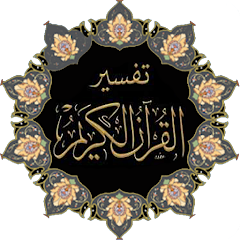
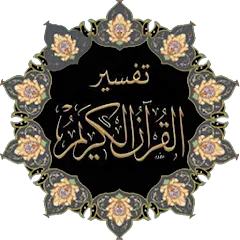
update ramadan

diff --git a/src/app/list-ramadan/page.js b/src/app/list-ramadan/page.js
@@ -7,6 +7,8 @@ import SplashScreen from "@/components/Layout/SplashScreen";
 // import moment from "moment";
 import moment from 'moment-hijri';
 import { useRamadan } from "@/context/ramadanContext";
+import { FontAwesomeIcon } from "@fortawesome/react-fontawesome";
+import { faClose, faLock } from "@fortawesome/free-solid-svg-icons";
 
 export default function Page() {
     const { ramadan } = useRamadan();
@@ -64,12 +66,13 @@ export default function Page() {
         const fetchRamadanDates = async () => {
             try {
                 const currentYear = new Date().getFullYear();
-                const url = `https://api.aladhan.com/v1/calendar?latitude=${location.lat}&longitude=${location.lng}&year=${currentYear}&method=2`;
+                const apiUrl = `https://api.aladhan.com/v1/calendar?latitude=${location.lat}&longitude=${location.lng}&year=${currentYear}&method=2`;
 
-                const response = await fetch(url);
-                const data = await response.json();
+                const response = await fetch(apiUrl);
+                if (!response.ok) throw new Error('فشل جلب البيانات');
+                const { data } = await response.json();
 
-                const ramadanDays = data.data;
+                const ramadanDays = data.filter(monthData => monthData.date.hijri.month.number === 9)
 
                 if (ramadanDays.length > 0) {
                     const firstDay = moment(ramadanDays[0].date.gregorian.date, "DD-MM-YYYY", true).toDate();
@@ -116,6 +119,12 @@ export default function Page() {
         return Math.max(1, Math.min(day, ramadanInfo.totalDays));
     };
 
+    const [currentRamadanDay, setCurrentRamadanDay] = useState(getCurrentRamadanDay());
+
+    useEffect(() => {
+        setCurrentRamadanDay(getCurrentRamadanDay());
+    }, [ramadanInfo.start]);
+
     if (isLoading) return <SplashScreen />;
     if (!ramadan) return null;
 
@@ -160,6 +169,7 @@ export default function Page() {
                         <table className="w-full border-collapse text-sm md:text-base bg-white dark:bg-black">
                             <thead className="sticky top-0">
                                 <tr className="bg-green-600 text-white text-center">
+                                    <span></span>
                                     <th className="p-3 font-semibold border-b border-green-500">اليوم</th>
                                     <th className="p-3 font-semibold border-b border-green-500">العبادات اليومية</th>
                                     <th className="p-3 font-semibold border-b border-green-500">النوافل</th>
@@ -174,14 +184,23 @@ export default function Page() {
                                     const dayNumber = i + 1;
                                     if (selectedDay !== "all" && dayNumber !== Number(selectedDay)) return null;
 
+
                                     return (
                                         <tr
                                             key={i}
-                                            className={`hover:bg-green-50 ${i % 2 === 0 ? "bg-green-50/30 dark:bg-zinc-800" : "bg-white dark:bg-black"}`}
+                                            className={`hover:bg-green-50 relative ${i % 2 === 0 ? "bg-green-50/30 dark:bg-zinc-800" : "bg-white dark:bg-black"}`}
                                         >
+                                            {
+                                                dayNumber > currentRamadanDay ?
+                                                    <span className="absolute z-10 flex items-center gap-3 justify-center top-0 w-full text-white h-full bg-black/60">
+                                                        يوم {dayNumber} - سيتم تفعيله عند دخول وقته
+                                                        <FontAwesomeIcon icon={faLock} />
+                                                    </span> : <span></span>
+                                            }
                                             <td className="p-3 text-center font-medium text-green-600 border-r dark:border-zinc-500">
                                                 {dayNumber} رمضان
                                             </td>
+
 
                                             {/* الصلوات المفروضة */}
                                             <td className="p-3 border-r dark:border-zinc-500">

diff --git a/src/data/links.js b/src/data/links.js
@@ -2,42 +2,42 @@ export const categoriesLinks = [
     {
         name: "امساكية شهر رمضان",
         path: "/calendar",
-        img: "/categories/mosque.png",
+        img: "/categories/mosque.webp",
         new: true,
         ramadan: true,
     },
     {
         name: "يومي في رمضان",
         path: "/list-ramadan",
-        img: "/categories/list.png",
+        img: "/categories/list.webp",
         new: true,
         ramadan: true,
     },
     {
         name: "اسئلة دينية",
         path: "/quiz",
-        img: "/categories/quiz.png",
+        img: "/categories/quiz.webp",
         new: true,
         ramadan: false,
     },
     {
         name: "اداه الباحث في الحديث",
         path: `/search/-`,
-        img: "/categories/search.jpeg",
+        img: "/categories/search.webp",
         new: true,
         ramadan: false,
     },
     {
         name: "اسماء الله الحسني",
         path: "/names",
-        img: "/categories/allah.png",
+        img: "/categories/allah.webp",
         new: true,
         ramadan: false,
     },
     {
         name: "قسم القران الكريم",
         path: "/qaran",
-        img: "/categories/qaran.png",
+        img: "/categories/qaran.webp",
         new: false,
         ramadan: false,
     },
@@ -51,91 +51,91 @@ export const categoriesLinks = [
     {
         name: "قسم الحديث",
         path: "/adiths",
-        img: "/categories/adith.jpeg",
+        img: "/categories/adith.webp",
         new: false,
         ramadan: false,
     },
     {
         name: "اوقات الصلاة والمناسبات الاسلامية",
         path: "/salah",
-        img: "/categories/Salah.jpeg",
+        img: "/categories/Salah.webp",
         new: false,
         ramadan: false,
     },
     {
         name: "قسم الادعية والاذكار",
         path: "/azekar",
-        img: "/categories/azekar.png",
+        img: "/categories/azekar.webp",
         new: false,
         ramadan: false,
     },
     {
         name: "قسم التسبيح",
         path: "/tasbih",
-        img: "/categories/tasbih.jpeg",
+        img: "/categories/tasbih.webp",
         new: false,
         ramadan: false,
     },
     {
         name: "قسم الاقتباسات",
         path: "/quotes",
-        img: "/categories/quotes.jpeg",
+        img: "/categories/quotes.webp",
         new: false,
         ramadan: false,
     },
     {
         name: "قسم الكتب",
         path: "/books/1",
-        img: "/categories/books.jpeg",
+        img: "/categories/books.webp",
         new: false,
         ramadan: false,
     },
     {
         name: "قسم المقالات",
         path: "/articles/1",
-        img: "/categories/articles.jpeg",
+        img: "/categories/articles.webp",
         new: false,
         ramadan: false,
     },
     {
         name: "قسم الخطب",
         path: "/khotab/1",
-        img: "/categories/khotab.jpeg",
+        img: "/categories/khotab.webp",
         new: false,
         ramadan: false,
     },
     {
         name: "قسم الفتاوي",
         path: "/fatwa/1",
-        img: "/categories/fatwa.jpg",
+        img: "/categories/fatwa.webp",
         new: false,
         ramadan: false,
     },
     {
         name: "قسم المحاضرات الصوتيه",
         path: "/audios/1",
-        img: "/categories/audios.jpeg",
+        img: "/categories/audios.webp",
         new: false,
         ramadan: false,
     },
     {
         name: "قسم المحاضرات الفيديو",
         path: "/videos/1",
-        img: "/categories/videos.jpg",
+        img: "/categories/videos.webp",
         new: false,
         ramadan: false,
     },
     {
         name: "ما لا يسع اطفال المسلمين جهله",
         path: "/children",
-        img: "/categories/children.jpeg",
+        img: "/categories/children.webp",
         new: true,
         ramadan: false,
     },
     {
         name: "ذكاه المال",
         path: "/zakat",
-        img: "/categories/zakat.png",
+        img: "/categories/zakat.webp",
         new: true,
         ramadan: false,
     },

diff --git a/src/components/Home/Categories.jsx b/src/components/Home/Categories.jsx
@@ -20,12 +20,14 @@ export default function Categories() {
                         </span>}
                         <div className="animate-border-beam"></div>
                         <div className="m-5 overflow-hidden rounded-md">
-                            <Image quality={20} src={item.img} loading="lazy" className="object-contain m-auto" width={170} height={170} alt="" />
+                            <Image quality={20} src={item.img} loading="lazy" className="object-contain m-auto" width={170} height={170} alt={item.name} />
                         </div>
                         <Link
                             className="flex justify-center rounded-md m-5 p-3 text-white bg-gradient-to-r from-green-600 to-lime-500 hover:scale-105 active:scale-90 transition-all"
                             href={`${item.path}`}>
-                            {item.name}
+                            <h2>
+                                {item.name}
+                            </h2>
                         </Link>
                     </div>
                 </div>
@@ -40,7 +42,9 @@ export default function Categories() {
                         <Link
                             className="flex justify-center rounded-md m-5 p-3 text-white bg-gradient-to-r from-green-600 to-lime-500 hover:scale-105 active:scale-90 transition-all"
                             href={`${item.path}`}>
-                            {item.name}
+                            <h2>
+                                {item.name}
+                            </h2>
                         </Link>
                     </div>
                 </div>

diff --git a/src/app/calendar/page.js b/src/app/calendar/page.js
@@ -63,7 +63,7 @@ const RamadanSchedule = () => {
                 if (!response.ok) throw new Error('فشل جلب البيانات');
                 const { data } = await response.json();
 
-                const ramadanDays = data
+                const ramadanDays = data.filter(monthData => monthData.date.hijri.month.number === 9)
 
                 if (!ramadanDays.length) throw new Error('لا توجد بيانات لرمضان');
 

diff --git a/src/app/globals.css b/src/app/globals.css
@@ -8,7 +8,7 @@
 }
 
 .font-cairo {
-    font-family: var(--cairo);
+    /* font-family: var(--cairo); */
 }
 
 
@@ -23,7 +23,7 @@
 }
 
 * {
-    font-family: "Cairo";
+    font-family: var(--cairo);
     outline: none !important;
     -webkit-tap-highlight-color: rgba(136, 109, 109, 0);
 }
